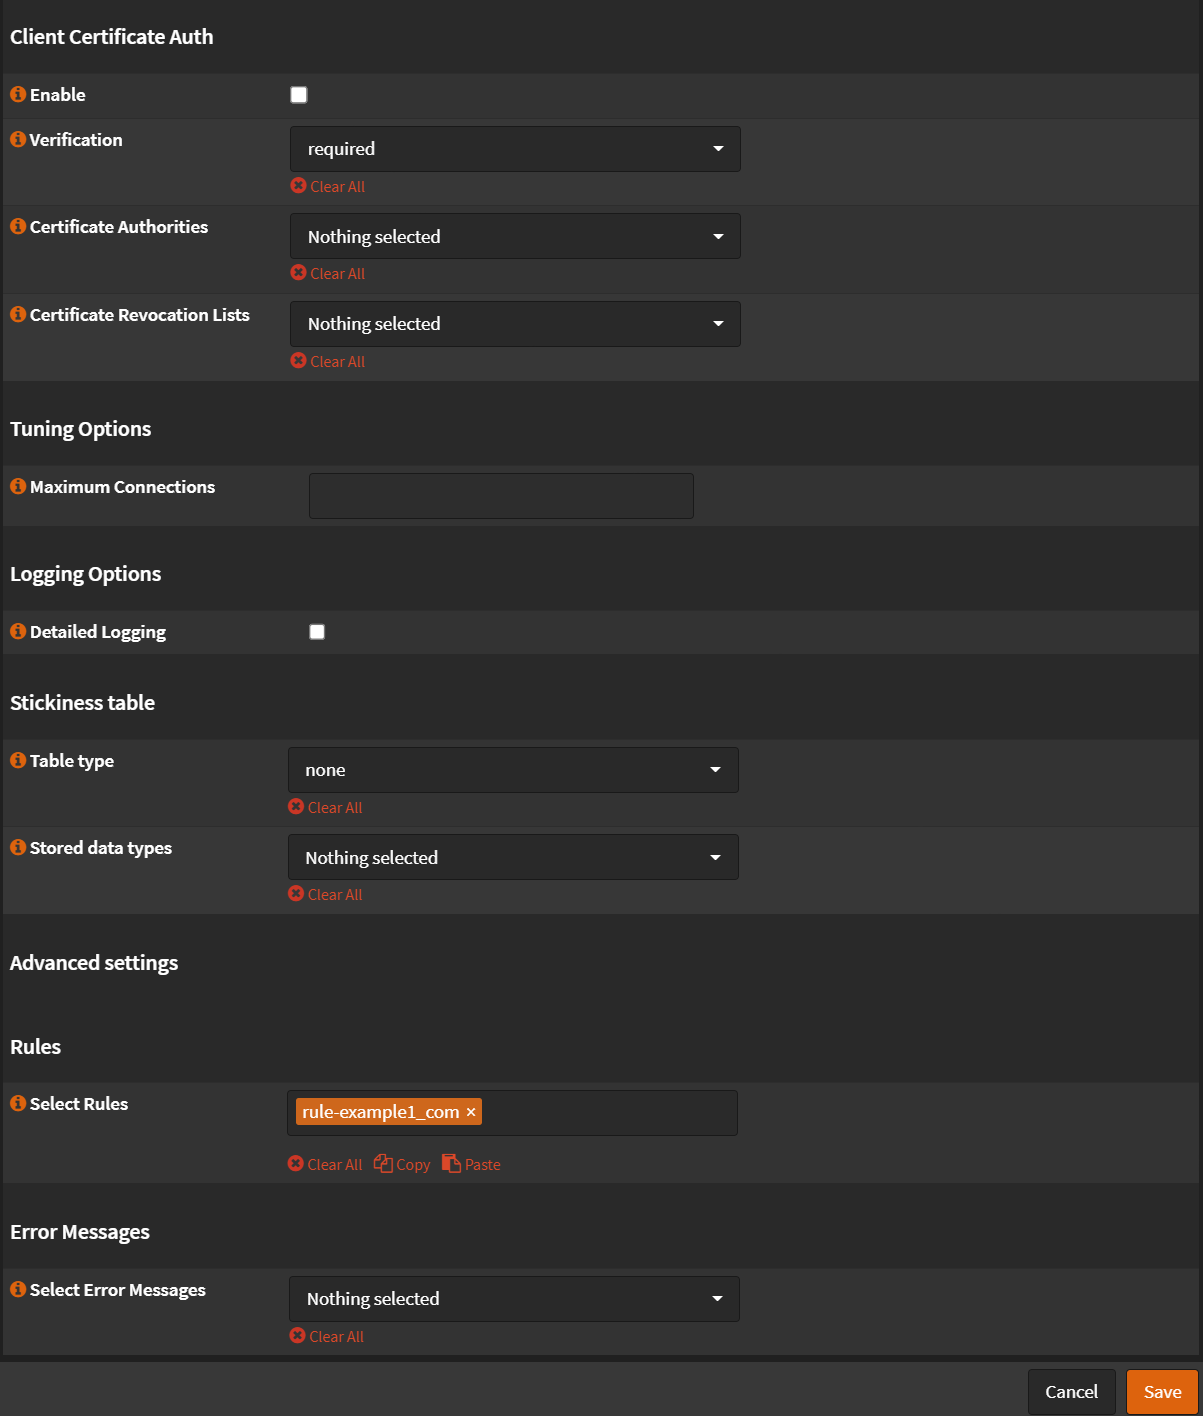
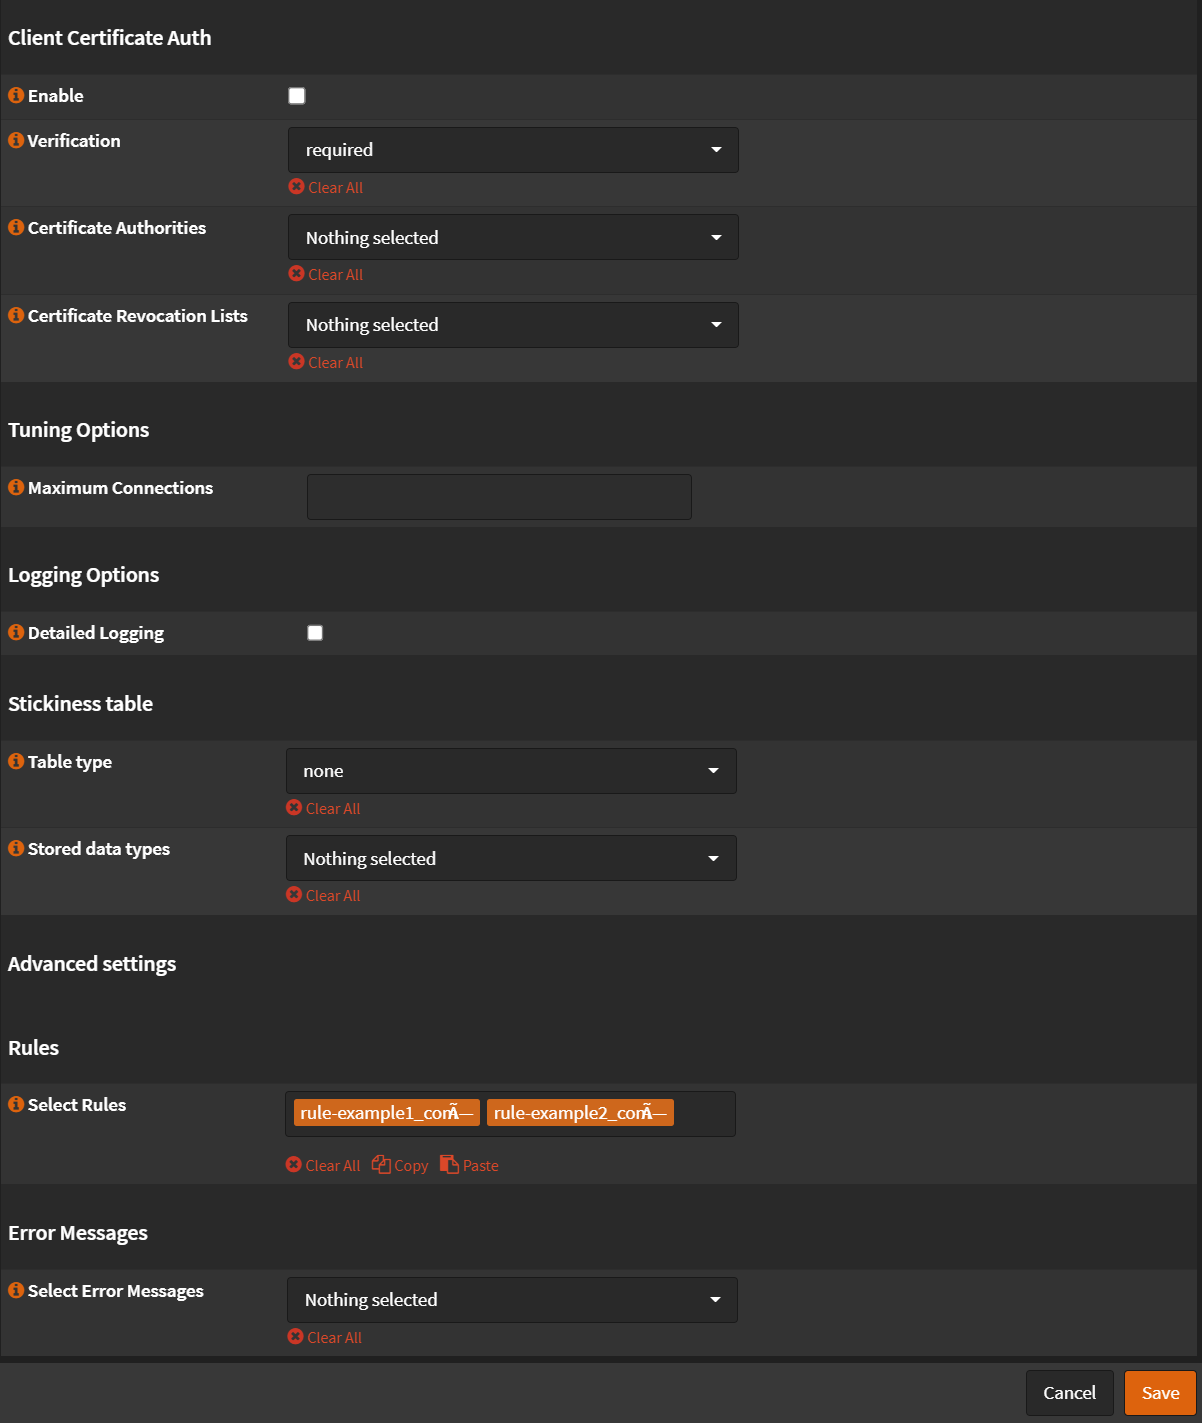
more work

diff --git a/docs/networking/2-opnsense/13-haproxy/3-sni.md b/docs/networking/2-opnsense/13-haproxy/3-sni.md
@@ -16,9 +16,10 @@ and only accepting HTTPS traffic.
 
 Navigate to `Services` -> `HAProxy` -> `Settings`
 
+- Click `Real Servers`
+
 ### Server 1
 
-- Click `Real Servers`
 - Click <kbd>➕</kbd>
 - Name or Prefix: `docker-vm`
 - Type: `static`
@@ -51,6 +52,9 @@ Navigate to `Services` -> `HAProxy` -> `Settings`
 
 - Click <kbd>🔽</kbd> next to `Virtual Services`
 - Click `Backend Pools`
+
+### Backend Pool 1
+
 - Click <kbd>➕</kbd>
 - Check `Enabled`
 - Name: `example1_pool`
@@ -64,6 +68,21 @@ Navigate to `Services` -> `HAProxy` -> `Settings`
 - Click <kbd>Save</kbd>
 - Click <kbd>Apply</kbd>
 
+### Backend Pool 2
+
+- Click <kbd>➕</kbd>
+- Check `Enabled`
+- Name: `example1_pool`
+- Mode: `TCP (Layer4)`
+- Servers: `other-docker-vm`
+- Uncheck `Health Checking`
+- Retries: `3`
+
+![haproxy-virtual-pool2](img/haproxy-virtual-pool2.png)
+
+- Click <kbd>Save</kbd>
+- Click <kbd>Apply</kbd>
+
 ## Rules & Checks
 
 ### Conditions
@@ -72,13 +91,29 @@ Navigate to `Services` -> `HAProxy` -> `Settings`
 
 - Click <kbd>🔽</kbd> next to `Rules & Checks`
 - Click `Conditions`
+
+### Condition 1
+
 - Click <kbd>➕</kbd>
 - Name: `sni-example1_com`
 - Description: `SNI Match all example1.com domain`
 - Condition type: `SNI TLS extension contains (TCP request content inspection)`
-- SNI Contains: `example.com`
+- SNI Contains: `example1.com`
 
 ![haproxy-sni-condition1](img/haproxy-sni-condition1.png)
+
+- Click <kbd>Save</kbd>
+- Click <kbd>Apply</kbd>
+
+### Condition 2
+
+- Click <kbd>➕</kbd>
+- Name: `sni-example1_com`
+- Description: `SNI Match all example1.com domain`
+- Condition type: `SNI TLS extension contains (TCP request content inspection)`
+- SNI Contains: `example2.com`
+
+![haproxy-sni-condition2  ](img/haproxy-sni-condition2.png)
 
 - Click <kbd>Save</kbd>
 - Click <kbd>Apply</kbd>
@@ -89,6 +124,9 @@ Navigate to `Services` -> `HAProxy` -> `Settings`
 
 - Click <kbd>🔽</kbd> next to `Rules & Checks`
 - Click `Rules`
+
+### Rule 1
+
 - Click <kbd>➕</kbd>
 - Name: `rule-example1_com`
 - Select conditions: `sni-example1_com`
@@ -96,6 +134,19 @@ Navigate to `Services` -> `HAProxy` -> `Settings`
 - Use backend pool: `example1_pool`
 
 ![haproxy-rule1](img/haproxy-rule1.png)
+
+- Click <kbd>Save</kbd>
+- Click <kbd>Apply</kbd>
+
+### Rule 2
+
+- Click <kbd>➕</kbd>
+- Name: `rule-example1_com`
+- Select conditions: `sni-example2_com`
+- Execute function: `Use specified Backend Pool`
+- Use backend pool: `example2_pool`
+
+![haproxy-rule2](img/haproxy-rule2.png)
 
 - Click <kbd>Save</kbd>
 - Click <kbd>Apply</kbd>
@@ -108,11 +159,12 @@ Navigate to `Services` -> `HAProxy` -> `Settings`
 - Click `Public Services`
 - Click <kbd>➕</kbd>
 - Name: `public`
+- TODO: Need to bind to public IP
 - Listen Addresses: `127.0.0.1:443`
 - Type: `SSL/HTTPS (TCP Mode)`
 - Default Backend Pool: `none`
 - Uncheck `Enable SSL offloading`
-- Select Rules: `rule-example1_com`
+- Select Rules: `rule-example1_com` `rule-example1_com`
 
 ![haproxy-public1](img/haproxy-public1.png)
 ![haproxy-public2](img/haproxy-public2.png)
